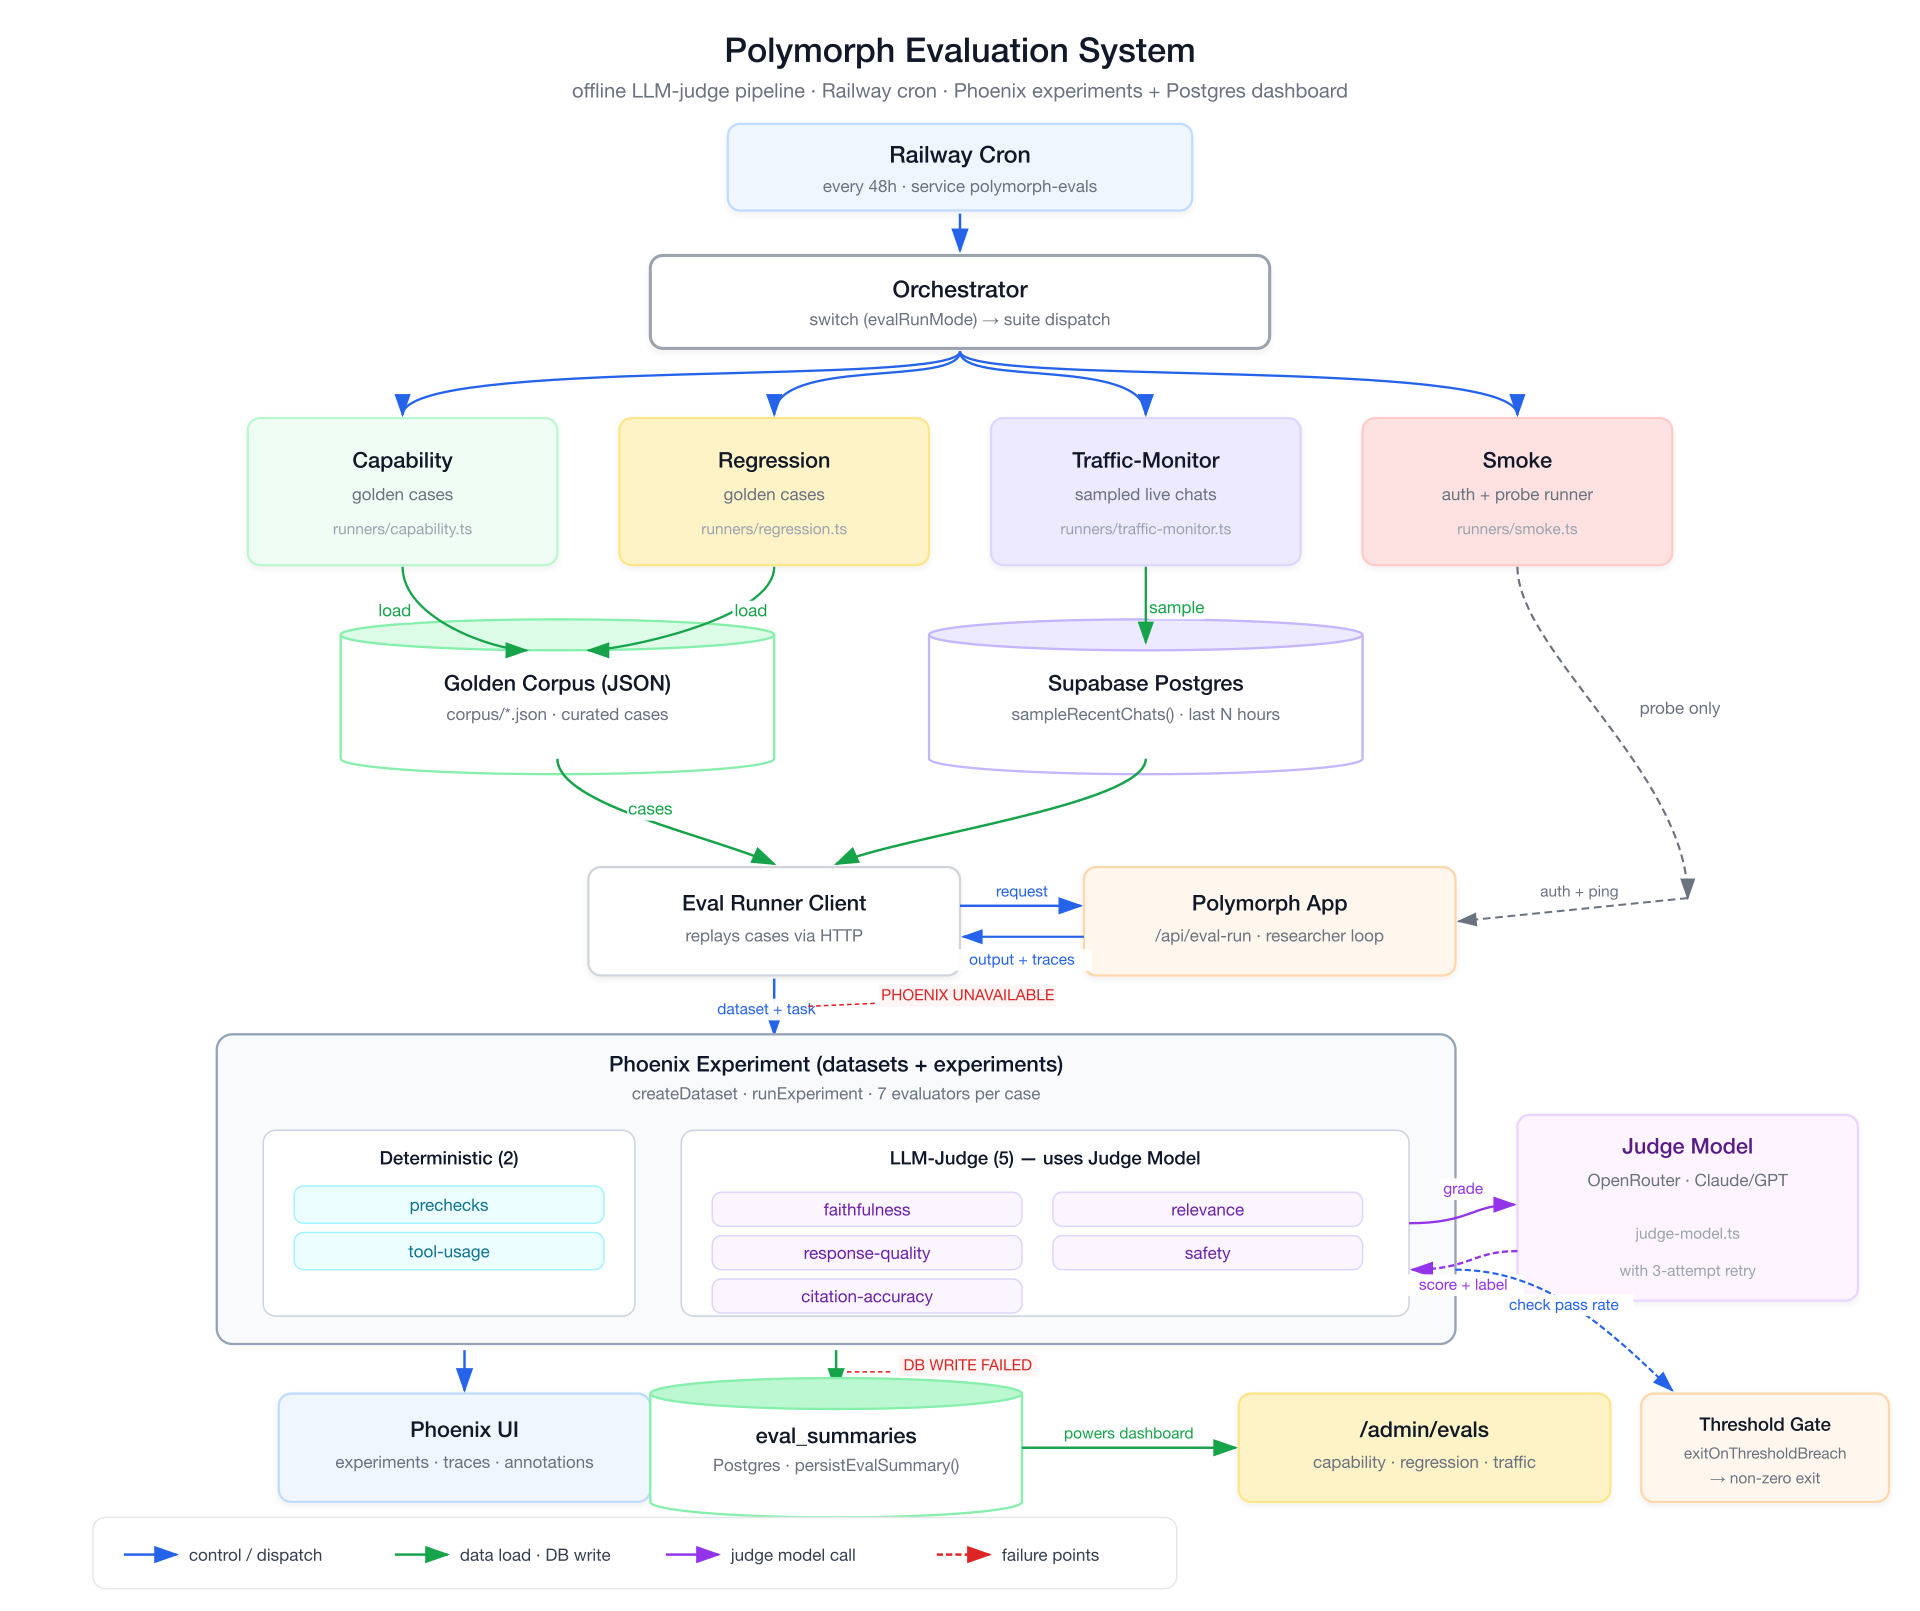
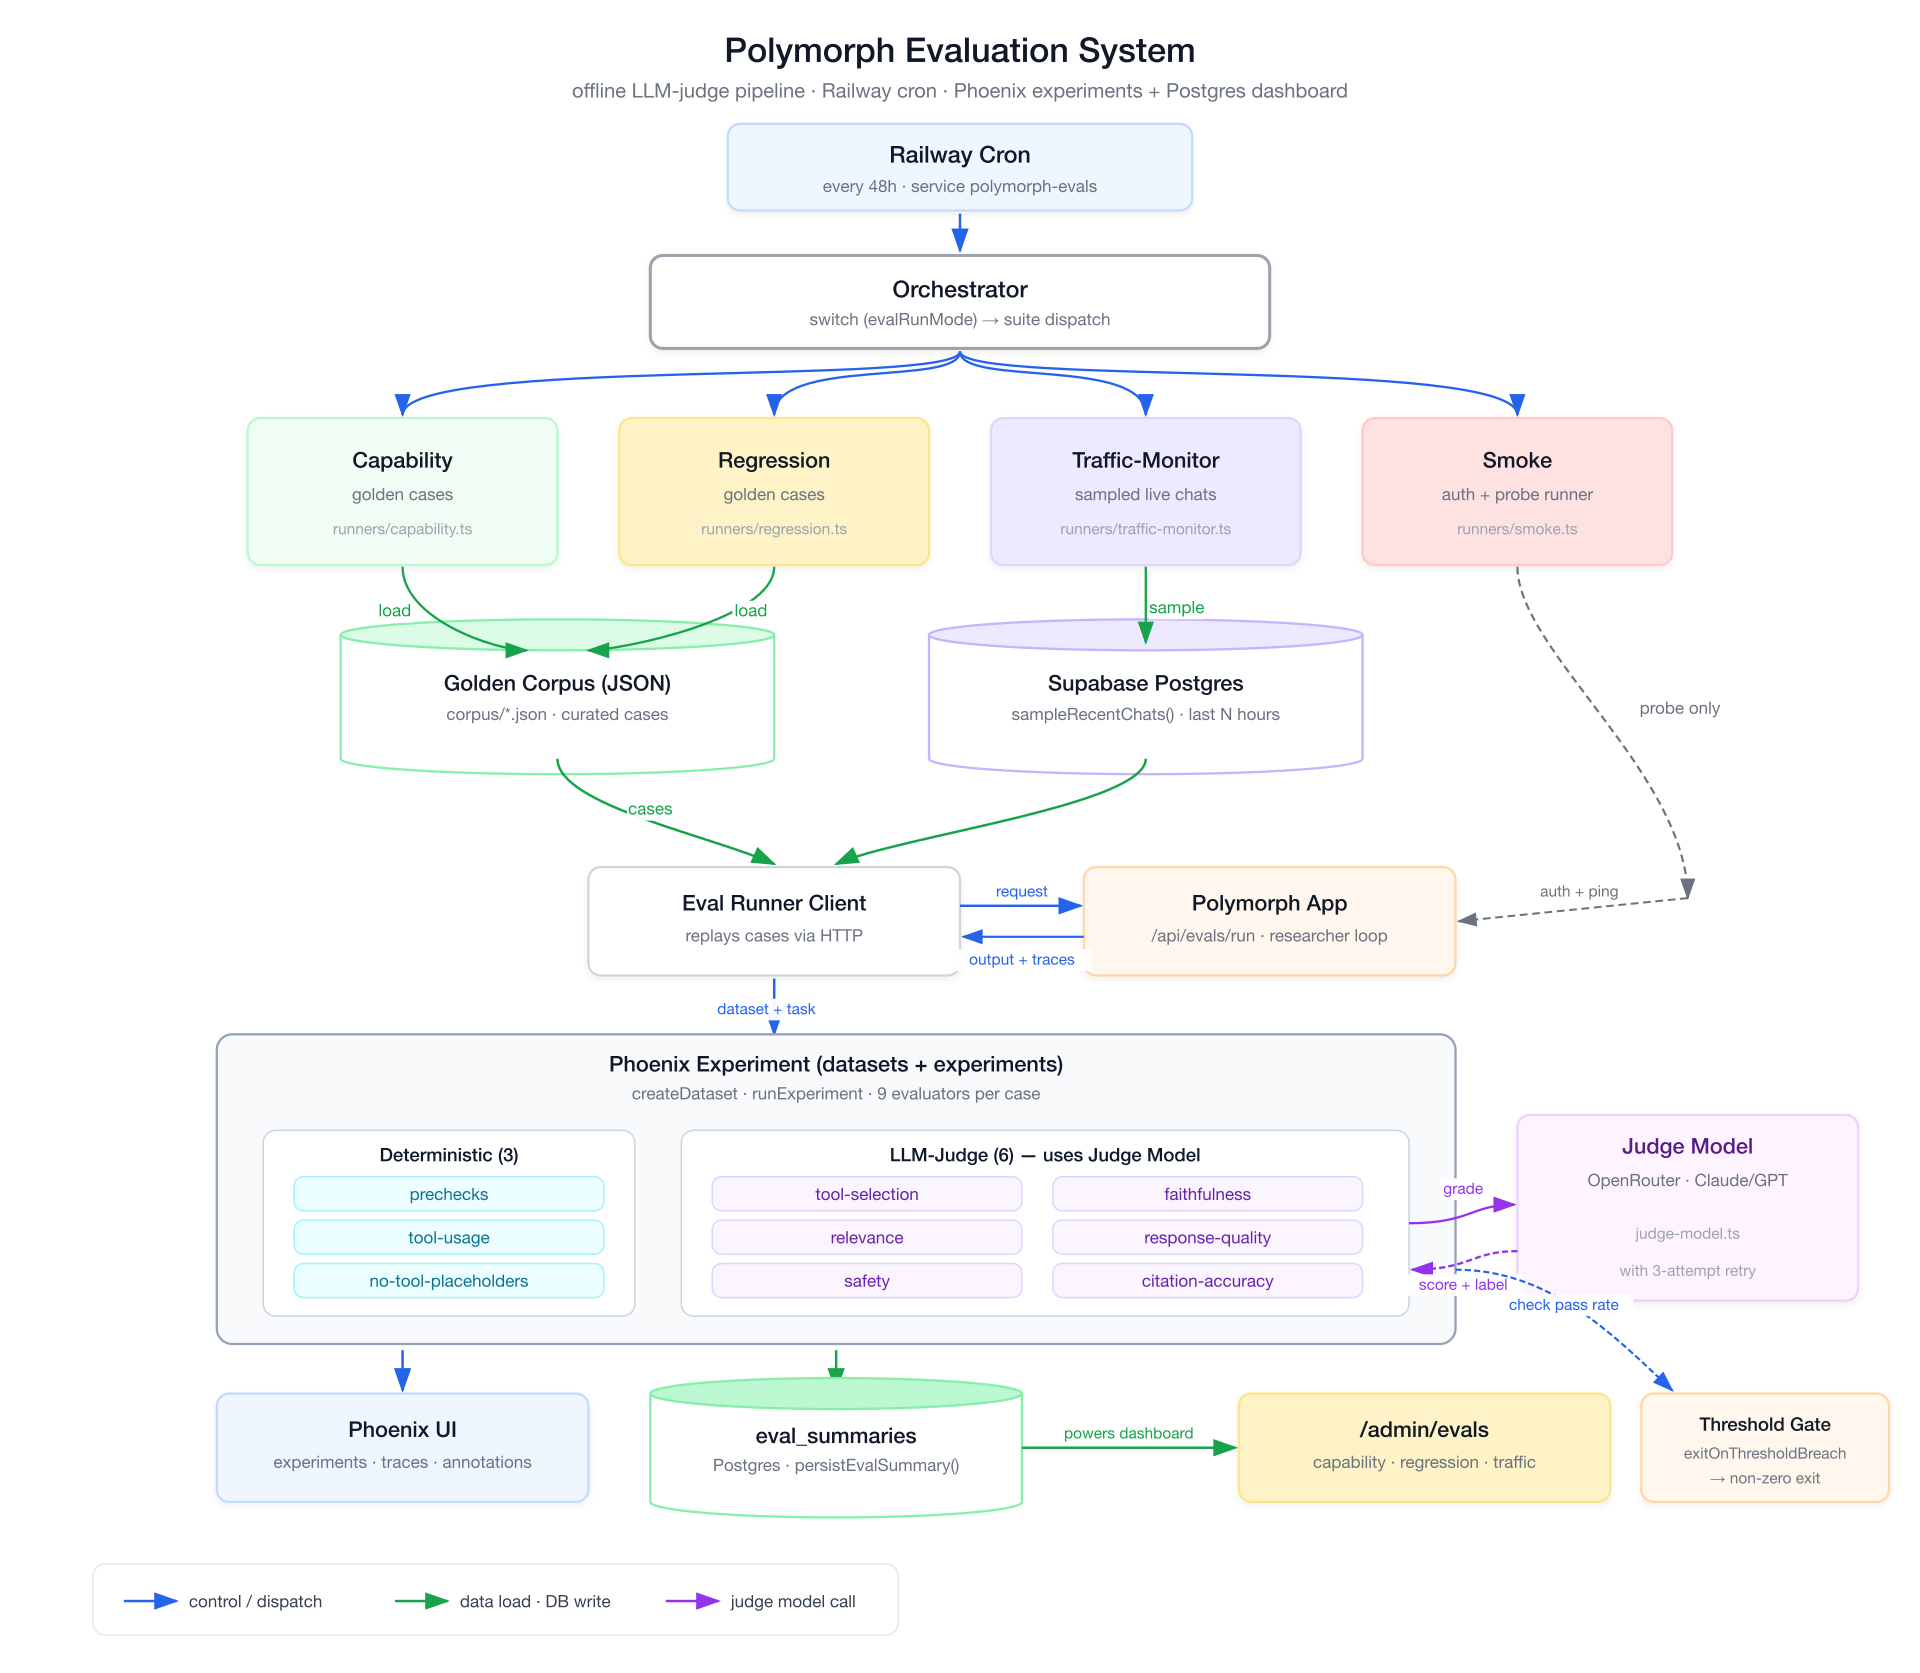
docs: add evaluation system diagram to README (#239)
* docs: add evaluation system diagram to README

Add a new Evaluation section with a light/dark eval-system
architecture diagram. The diagram is a hand-authored, editable SVG
matching the existing architecture diagram's visual language, plus a
dark variant and 1920px PNG exports for the responsive <picture>
element. Also corrects the app endpoint label to /api/evals/run.

* docs: fix overlapping elements at bottom of eval diagram

Shift the Phoenix UI box left to open a 40px gap from the
eval_summaries cylinder (matching the diagram's standard spacing),
and move the legend down with a taller viewBox so the cylinder no
longer collides with it. Regenerate light + dark PNGs.

* docs: remove failure-state labels from eval diagram

Drop the PHOENIX UNAVAILABLE and DB WRITE FAILED annotations and the
"failure points" legend entry. Those are Railway error log strings
documented in the ops runbook, not part of the system's data flow —
they cluttered the happy-path diagram and read as if the system were
down. Resize the legend to fit its remaining three entries.

* docs: make README diagrams click-to-zoom

Wrap the architecture and evaluation diagrams in anchors linking to
the full-resolution PNG, so readers can click to view the larger
version.

* docs: correct evaluator counts and smoke-suite role in eval diagram

The Evaluation diagram and README alt-text misstated the eval pipeline:

- Evaluator count: judged suites run 9 evaluators per case, not 7. Three
[…]

diff --git a/README.md b/README.md
@@ -56,14 +56,30 @@
 ## Architecture
 
 <div align="center">
-  <picture>
-    <source media="(prefers-color-scheme: dark)" srcset="docs/assets/architecture-dark.png">
-    <source media="(prefers-color-scheme: light)" srcset="docs/assets/architecture.png">
-    <img alt="Polymorph architecture: a three-agent chat system (search, research, build) routes requests through a shared tool layer (core, generative-UI display, geo, canvas) to multi-provider search, OpenRouter text models, optional Gateway image generation, and Postgres with Phoenix observability." src="docs/assets/architecture.png" width="960">
-  </picture>
+  <a href="docs/assets/architecture.png">
+    <picture>
+      <source media="(prefers-color-scheme: dark)" srcset="docs/assets/architecture-dark.png">
+      <source media="(prefers-color-scheme: light)" srcset="docs/assets/architecture.png">
+      <img alt="Polymorph architecture: a three-agent chat system (search, research, build) routes requests through a shared tool layer (core, generative-UI display, geo, canvas) to multi-provider search, OpenRouter text models, optional Gateway image generation, and Postgres with Phoenix observability." src="docs/assets/architecture.png" width="960">
+    </picture>
+  </a>
 </div>
 
 <p align="center"><sub>Three-agent chat system with generative UI · See <a href="docs/architecture/OVERVIEW.md">architecture overview</a> for the full breakdown.</sub></p>
+
+## Evaluation
+
+<div align="center">
+  <a href="docs/assets/eval-system.png">
+    <picture>
+      <source media="(prefers-color-scheme: dark)" srcset="docs/assets/eval-system-dark.png">
+      <source media="(prefers-color-scheme: light)" srcset="docs/assets/eval-system.png">
+      <img alt="Polymorph evaluation system: a Railway cron orchestrates three judged suites (capability, regression, traffic-monitor) that replay cases through the app, score them with three deterministic and six LLM-judge evaluators, then persist results to Phoenix and Postgres for the admin dashboard, plus a separate smoke suite that auths and probes /api/chat as a health check (not scored or persisted)." src="docs/assets/eval-system.png" width="960">
+    </picture>
+  </a>
+</div>
+
+<p align="center"><sub>Offline LLM-judge pipeline · Railway cron → Phoenix experiments → Postgres dashboard.</sub></p>
 
 ## Attribution
 
